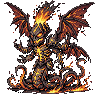
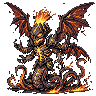
提豐：去掉圖上頭頂原本的黑煙
Claude-Session: https://claude.ai/code/session_019AjetoHBUzNNZUvoSfpCgP

Changed region(s): [[0.3438, 0.0, 0.6562, 0.1562], [0.625, 0.125, 0.6562, 0.1562]]

diff --git a/battle/index.html b/battle/index.html
@@ -389,7 +389,7 @@ function msz(k){return k==='sk'?[40,40]:FLY[k]?(FLY[k].im&&FLY[k].im[0]?[FLY[k].
 function skFrame(now){var bl=(now%3200)<180?1:0,dy=Math.sin(now/330)>0?1:0,k=bl+'_'+dy;if(SKC[k])return SKC[k];var im=SKI[bl];if(!im||!im.naturalWidth)return '';var c=document.createElement('canvas');c.width=40;c.height=40;var x=c.getContext('2d');x.imageSmoothingEnabled=false;x.drawImage(im,0,34,40,6,0,34,40,6);x.drawImage(im,0,0,40,34,0,dy,40,34);return SKC[k]=c.toDataURL()}
 /* 眼睛圖層型的怪物：_blink 是眼睛圖層，平常疊上去、眨眼時藏起來；膝蓋以上每 0.66 秒上下 1 格 */
 var BHRUNE=[[15,30],[15,31],[16,28],[17,29],[17,30],[17,69],[17,70],[18,28],[18,29],[18,67],[18,68],[18,69],[19,27],[19,30],[19,31],[19,64],[19,65],[19,67],[20,29],[20,30],[20,31],[20,59],[20,60],[20,61],[20,62],[20,65],[20,66],[20,67],[21,30],[21,33],[21,59],[21,60],[21,63],[21,64],[21,68],[21,69],[22,28],[22,34],[22,61],[22,62],[22,63],[23,28],[23,29],[24,28],[24,33],[24,35],[25,34],[25,35],[26,31],[27,32],[48,46],[48,47],[49,47],[49,48],[50,48],[51,44],[51,45],[51,46],[51,49],[51,73],[52,41],[52,42],[52,43],[52,46],[52,47],[52,49],[52,68],[52,69],[52,70],[52,72],[52,73],[53,44],[53,45],[53,47],[53,49],[53,51],[53,52],[53,53],[53,63],[53,66],[53,67],[53,70],[53,72],[54,42],[54,43],[54,44],[54,47],[54,48],[54,50],[54,54],[54,62],[54,65],[54,66],[54,68],[54,69],[54,71],[54,72],[55,42],[55,45],[55,48],[55,55],[55,56],[55,60],[55,61],[55,64],[55,65],[55,68],[55,69],[55,71],[55,72],[56,40],[56,41],[56,43],[56,46],[56,48],[56,49],[56,50],[56,59],[56,60],[56,62],[56,64],[56,70],[56,72],[57,41],[57,43],[57,44],[57,45],[57,51],[57,52],[57,59],[57,63],[57,65],[57,66],[57,70],[58,39],[58,40],[58,42],[58,50],[58,63],[58,67],[58,68],[59,40],[59,41],[59,43],[59,44],[59,50],[59,62],[59,63],[59,65],[60,47],[60,49],[60,50],[60,54],[60,55],[60,58],[60,59],[60,60],[60,61],[60,62],[60,65],[60,67],[61,48],[61,49],[61,51],[61,52],[61,53],[61,65],[61,66],[75,7],[76,6],[76,7],[77,6],[85,7]];/* 貝希摩斯身上綠色符文的像素（相對裁切後的圖） */
-var LAY={balrog:{sz:[80,83],c:{},per:1e12,kn:22,br:460,flm:1,fbox:[[20,4,46,24],[3,60,44,81]]}/* 炎魔：頭上的火、大劍的火都會晃 */,fwizard:{sz:[34,40],c:{},per:1e12,kn:12,br:400,flm:1,fbox:[31,0,40,12]}/* 沉淪魔巫師：杖頭火焰搖曳 */,fallen:{sz:[32,40],c:{},per:1e12,kn:12,br:360}/* 沉淪魔 */,lavag:{sz:[44,45],c:{},per:1e12,kn:14,br:430}/* 熔岩魔怪 */,felem:{sz:[60,61],c:{},per:1e12,kn:10,br:520,flm:1,fedge:3,fbox:[[17,2,44,16],[2,22,19,46],[40,10,54,35],[42,35,62,63]]}/* 火焰元素：頭、兩隻手、尾巴的火焰會晃 */,shound:{sz:[50,41],c:{},per:1e12,kn:12,br:450,flm:1,fbox:[[12,8,43,24],[10,38,52,50]]}/* 硫磺魔犬：鬃毛、腳掌的火會晃 */,acidb:{sz:[54,50],c:{},per:1e12,kn:8,br:480,flm:1,fbox:[[43,6,55,25]]}/* 赤焰蝕骨怪：尾巴的火會晃 */,typhon:{sz:[91,94],c:{},per:1e12,kn:30,br:520,flm:1,fbox:[[30,0,56,26]],eskip:[28,0,58,28]}/* 提豐：頭上業火會晃 */,salam:{sz:[46,44],c:{},per:1e12,kn:13,br:400,flm:1}/* 火焰蠑螈：背上的火焰會晃 */,flagel:{sz:[41,46],c:{},per:3300,kn:12,br:620},ironguard:{sz:[59,56],c:{},per:3600,kn:14,br:700},griffin:{sz:[42,46],c:{},per:1e12,kn:12,br:600},judge1:{sz:[75,78],c:{},per:1e12,kn:18,br:820},judge2:{sz:[56,72],c:{},per:1e12,kn:16,br:560},spriest:{sz:[37,46],c:{},per:1e12,kn:16,br:720,orb:[8.5,10]},sknight:{sz:[43,43],c:{},per:3800,kn:12,br:680},sarcher:{sz:[43,45],c:{},per:3400,kn:12,br:600},sguard:{sz:[42,46],c:{},per:3600,kn:12,br:640},valhalla:{sz:[96,94],c:{},per:1e12,kn:22,br:680},fsamurai:{sz:[52,63],c:{},per:1e12,kn:18,br:620},ielem:{sz:[54,60],c:{},per:3600,kn:15,br:600},mammoth:{sz:[45,43],c:{},per:3600,kn:12,br:620},goatman:{sz:[61,63],c:{},per:1e12,kn:19,br:600},cqueen:{sz:[84,84],c:{},per:1e12,kn:26,br:650},slion:{sz:[62,58],c:{},per:1e12,kn:18,br:640},stiger:{sz:[61,49],c:{},per:3300,kn:18,br:560},yeti:{sz:[60,63],c:{},per:3600,kn:17,br:600},chroma:{sz:[93,90],c:{},per:1e12,kn:24,br:650},fleshgolem:{sz:[49,60],c:{},per:1e12,kn:14,br:640},leoric:{sz:[81,86],c:{},per:3400,kn:22,br:700},apostle:{sz:[48,58],c:{},per:3300,kn:20,br:620},gargoyle:{sz:[38,43],c:{},per:3500,kn:43,br:1e12,inv:1,op:1200},bonearcher:{sz:[50,60],c:{},per:1e12,kn:20,br:560},boneman:{sz:[59,57],c:{},per:1e12,kn:20,br:600},bonepile:{sz:[54,37],c:{},per:1e12,kn:37,br:1e12},gob:{sz:[25,27],c:{},per:2900,kn:6},orc:{sz:[36,45],c:{},per:3400,kn:7},gobw:{sz:[24,27],c:{},per:2600,kn:6},golem:{sz:[44,45],c:{},per:3600,kn:7},cgolem:{sz:[44,45],c:{},per:3800,kn:7},spider:{sz:[48,30],c:{},per:3000,kn:8},troll:{sz:[49,53],c:{},per:1e12,kn:15,br:200},sandsnake:{sz:[31,36],c:{},per:3100,kn:12,br:380,tgp:2000},mummy:{sz:[26,45],c:{},per:1e12,kn:14,br:430},scorpion:{sz:[41,38],c:{},per:1e12,kn:10,br:360},croc:{sz:[46,35],c:{},per:1e12,kn:7,br:400},jackal:{sz:[48,36],c:{},per:1e12,kn:8,br:380},gorgon:{sz:[49,53],c:{},per:1e12,kn:13,br:420},ydragon:{sz:[40,32],c:{},per:1e12,kn:8,br:440},fydragon:{sz:[40,32],c:{},per:1e12,kn:8,br:400},iydragon:{sz:[40,33],c:{},per:1e12,kn:8,br:460},lydragon:{sz:[40,37],c:{},per:1e12,kn:8,br:300},udragon:{sz:[75,59],c:{},per:1e12,kn:12,br:500},u2dragon:{sz:[75,61],c:{},per:1e12,kn:12,br:520},bonedragon:{sz:[59,56],c:{},per:1e12,kn:18,br:620},mdragon:{sz:[42,32],c:{},per:1e12,kn:8,br:480},zombie:{sz:[38,45],c:{},per:1e12,kn:16,br:620},druid:{sz:[57,63],c:{},per:1e12,kn:16,br:560},behemoth:{sz:[95,85],c:{},per:3600,kn:26,br:640},hydragon:{sz:[40,32],c:{},per:1e12,kn:8,br:460},sdragon:{sz:[61,54],c:{},per:1e12,kn:15,br:520},osiris:{sz:[95,83],c:{},per:1e12,kn:16,br:520}};/* tgp = 吐舌週期（舌頭圖層每週期快速吐兩下） *//* br = 起伏速度（預設 330，數字小 = 喘得快）；巨魔不眨眼，紅眼和鼻息在 idleOne 畫 */
+var LAY={balrog:{sz:[80,83],c:{},per:1e12,kn:22,br:460,flm:1,fbox:[[20,4,46,24],[3,60,44,81]]}/* 炎魔：頭上的火、大劍的火都會晃 */,fwizard:{sz:[34,40],c:{},per:1e12,kn:12,br:400,flm:1,fbox:[31,0,40,12]}/* 沉淪魔巫師：杖頭火焰搖曳 */,fallen:{sz:[32,40],c:{},per:1e12,kn:12,br:360}/* 沉淪魔 */,lavag:{sz:[44,45],c:{},per:1e12,kn:14,br:430}/* 熔岩魔怪 */,felem:{sz:[60,61],c:{},per:1e12,kn:10,br:520,flm:1,fedge:3,fbox:[[17,2,44,16],[2,22,19,46],[40,10,54,35],[42,35,62,63]]}/* 火焰元素：頭、兩隻手、尾巴的火焰會晃 */,shound:{sz:[50,41],c:{},per:1e12,kn:12,br:450,flm:1,fbox:[[12,8,43,24],[10,38,52,50]]}/* 硫磺魔犬：鬃毛、腳掌的火會晃 */,acidb:{sz:[54,50],c:{},per:1e12,kn:8,br:480,flm:1,fbox:[[43,6,55,25]]}/* 赤焰蝕骨怪：尾巴的火會晃 */,typhon:{sz:[91,92],c:{},per:1e12,kn:30,br:520,flm:1,fbox:[[30,0,56,26]],eskip:[28,0,58,28]}/* 提豐：頭上業火會晃 */,salam:{sz:[46,44],c:{},per:1e12,kn:13,br:400,flm:1}/* 火焰蠑螈：背上的火焰會晃 */,flagel:{sz:[41,46],c:{},per:3300,kn:12,br:620},ironguard:{sz:[59,56],c:{},per:3600,kn:14,br:700},griffin:{sz:[42,46],c:{},per:1e12,kn:12,br:600},judge1:{sz:[75,78],c:{},per:1e12,kn:18,br:820},judge2:{sz:[56,72],c:{},per:1e12,kn:16,br:560},spriest:{sz:[37,46],c:{},per:1e12,kn:16,br:720,orb:[8.5,10]},sknight:{sz:[43,43],c:{},per:3800,kn:12,br:680},sarcher:{sz:[43,45],c:{},per:3400,kn:12,br:600},sguard:{sz:[42,46],c:{},per:3600,kn:12,br:640},valhalla:{sz:[96,94],c:{},per:1e12,kn:22,br:680},fsamurai:{sz:[52,63],c:{},per:1e12,kn:18,br:620},ielem:{sz:[54,60],c:{},per:3600,kn:15,br:600},mammoth:{sz:[45,43],c:{},per:3600,kn:12,br:620},goatman:{sz:[61,63],c:{},per:1e12,kn:19,br:600},cqueen:{sz:[84,84],c:{},per:1e12,kn:26,br:650},slion:{sz:[62,58],c:{},per:1e12,kn:18,br:640},stiger:{sz:[61,49],c:{},per:3300,kn:18,br:560},yeti:{sz:[60,63],c:{},per:3600,kn:17,br:600},chroma:{sz:[93,90],c:{},per:1e12,kn:24,br:650},fleshgolem:{sz:[49,60],c:{},per:1e12,kn:14,br:640},leoric:{sz:[81,86],c:{},per:3400,kn:22,br:700},apostle:{sz:[48,58],c:{},per:3300,kn:20,br:620},gargoyle:{sz:[38,43],c:{},per:3500,kn:43,br:1e12,inv:1,op:1200},bonearcher:{sz:[50,60],c:{},per:1e12,kn:20,br:560},boneman:{sz:[59,57],c:{},per:1e12,kn:20,br:600},bonepile:{sz:[54,37],c:{},per:1e12,kn:37,br:1e12},gob:{sz:[25,27],c:{},per:2900,kn:6},orc:{sz:[36,45],c:{},per:3400,kn:7},gobw:{sz:[24,27],c:{},per:2600,kn:6},golem:{sz:[44,45],c:{},per:3600,kn:7},cgolem:{sz:[44,45],c:{},per:3800,kn:7},spider:{sz:[48,30],c:{},per:3000,kn:8},troll:{sz:[49,53],c:{},per:1e12,kn:15,br:200},sandsnake:{sz:[31,36],c:{},per:3100,kn:12,br:380,tgp:2000},mummy:{sz:[26,45],c:{},per:1e12,kn:14,br:430},scorpion:{sz:[41,38],c:{},per:1e12,kn:10,br:360},croc:{sz:[46,35],c:{},per:1e12,kn:7,br:400},jackal:{sz:[48,36],c:{},per:1e12,kn:8,br:380},gorgon:{sz:[49,53],c:{},per:1e12,kn:13,br:420},ydragon:{sz:[40,32],c:{},per:1e12,kn:8,br:440},fydragon:{sz:[40,32],c:{},per:1e12,kn:8,br:400},iydragon:{sz:[40,33],c:{},per:1e12,kn:8,br:460},lydragon:{sz:[40,37],c:{},per:1e12,kn:8,br:300},udragon:{sz:[75,59],c:{},per:1e12,kn:12,br:500},u2dragon:{sz:[75,61],c:{},per:1e12,kn:12,br:520},bonedragon:{sz:[59,56],c:{},per:1e12,kn:18,br:620},mdragon:{sz:[42,32],c:{},per:1e12,kn:8,br:480},zombie:{sz:[38,45],c:{},per:1e12,kn:16,br:620},druid:{sz:[57,63],c:{},per:1e12,kn:16,br:560},behemoth:{sz:[95,85],c:{},per:3600,kn:26,br:640},hydragon:{sz:[40,32],c:{},per:1e12,kn:8,br:460},sdragon:{sz:[61,54],c:{},per:1e12,kn:15,br:520},osiris:{sz:[95,83],c:{},per:1e12,kn:16,br:520}};/* tgp = 吐舌週期（舌頭圖層每週期快速吐兩下） *//* br = 起伏速度（預設 330，數字小 = 喘得快）；巨魔不眨眼，紅眼和鼻息在 idleOne 畫 */
 function layFrame(k,now){var L=LAY[k],cl=L.inv?((now%L.per)>=L.op?1:0):(now%L.per)<160?1:0/* inv = 眼睛平常閉著、偶爾睜開 op 毫秒（石像鬼） */,dy=Math.sin(now/(L.br||330))>0?1:0,tq=L.tgp?now%L.tgp:9999,tg=L.tg&&((tq<150)||(tq>=300&&tq<450))?1:0,fi=L.flm?Math.floor(now/120)%6:0,key=cl+'_'+dy+'_'+tg+'_'+fi;if(L.c[key])return L.c[key];var b=L.base,e=L.eyes;if(!b||!b.naturalWidth||!L.bb)return '';
   var bb=L.bb,w=bb[2],h=bb[3],kn=h-L.kn,N=b.naturalWidth,c=document.createElement('canvas');c.width=w;c.height=h;var x=c.getContext('2d');x.imageSmoothingEnabled=false;
   var t=document.createElement('canvas');t.width=N;t.height=b.naturalHeight;var tx=t.getContext('2d');tx.drawImage(L.nof||b,0,0);if(L.fp)flameDraw(L,tx,fi);if(!cl&&e)tx.drawImage(e,0,0);if(tg)tx.drawImage(L.tg,0,0);
@@ -568,7 +568,7 @@ function bigSmash(e,d){var L=1e9,R=-1e9,T=1e9,B2=-1e9;(e.tgts||[]).forEach(funct
   if(im){var u=(d-60)/560;if(u>=0&&u<=1){var S=(56+u*40)*VS,a=u<.15?u/.15:1-Math.pow((u-.15)/.85,1.5);pctx.save();pctx.imageSmoothingEnabled=false;pctx.globalAlpha=Math.max(0,a);pctx.drawImage(im,Math.round((cx-S/2)*U),Math.round((cy-S/2)*U),Math.round(S*U),Math.round(S*U));pctx.restore()}}
   if(d>120&&d<480)shakeY=Math.round(Math.sin(d/16)*2*U*(1-(d-120)/360));pBurst(pk,cx,cy,d-140,30,VS*1.6);(e.tgts||[]).forEach(function(tk,n){var pp=posOf(tk);pBurst(pk,pp[0],pp[1]-14,d-200-n*30,12,VS)});FXA=fa}
 /* 怪物身上的特效起點（相對裁切後的圖）：mouth = 嘴、hand = 手 */
-var MPT={salam:{mouth:[2,22]},shound:{mouth:[3,25]},acidb:{mouth:[4,24]},typhon:{mouth:[36,38]},mammoth:{cast:[13,11],mouth:[12,30]},cqueen:{cast:[12,27]},yeti:{hand:[12,8]},fleshgolem:{mouth:[10,14],hand:[7,42]},chroma:{mR:[18,31.5],mG:[38,12],mB:[68,32.5]}};
+var MPT={salam:{mouth:[2,22]},shound:{mouth:[3,25]},acidb:{mouth:[4,24]},typhon:{mouth:[36,36]},mammoth:{cast:[13,11],mouth:[12,30]},cqueen:{cast:[12,27]},yeti:{hand:[12,8]},fleshgolem:{mouth:[10,14],hand:[7,42]},chroma:{mR:[18,31.5],mG:[38,12],mB:[68,32.5]}};
 function monPt(i,k){var mo=mons[i];if(!mo||mo.lx==null)return null;var MZ=msz(mo.k),q=(MPT[mo.k]||{})[k]||[MZ[0]*.25,MZ[1]*.35];return[mo.lx-MZ[0]*mo.sc/2+q[0]*mo.sc,mo.gy-(mo.lift||0)-MZ[1]*mo.sc+q[1]*mo.sc]}
 /* 屍塊噴吐：從嘴巴噴出一大把暗紅肉塊，拋物線飛到每個人身上，落地濺血 */
 function goreFx(e,d){var s=monPt(e.a,'mouth');if(!s||d<0||d>1100)return;var C=['#7a1a14','#a8322a','#d06a5a','#4a0e0a','#c89a8a'];
@@ -2776,7 +2776,7 @@ var IMGF={monster_01:'monsters/monster_01.png',monster_02:'monsters/monster_02.p
   monster_03:'monsters/monster_03.png?v=3',monster_03_blink:'monsters/monster_03_blink.png?v=2',monster_boss_01:'monsters/monster_boss_01.png',monster_boss_01_blink:'monsters/monster_boss_01_blink.png',
   monster_04:'monsters/monster_04.png',monster_05:'monsters/monster_05.png',monster_06:'monsters/monster_06.png?v=2',monster_boss_02:'monsters/monster_boss_02.png?v=5',
   monster_07:'monsters/monster_07.png?v=1',monster_08:'monsters/monster_08.png?v=1',monster_08_blink:'monsters/monster_08_blink.png?v=1',monster_09:'monsters/monster_09.png?v=2',
-  monster_10_a:'monsters/monster_10_a.png?v=1',monster_10_b:'monsters/monster_10_b.png?v=1',monster_11:'monsters/monster_11.png?v=1',monster_11_blink:'monsters/monster_11_blink.png?v=1',monster_12:'monsters/monster_12.png?v=1',monster_12_blink:'monsters/monster_12_blink.png?v=1',monster_14:'monsters/monster_14.png?v=1',monster_boss_06:'monsters/monster_boss_06.png?v=1',monster_boss_05:'monsters/monster_boss_05.png?v=1',monster_25:'monsters/monster_25.png?v=1',monster_22:'monsters/monster_22.png?v=1',monster_23:'monsters/monster_23.png?v=1',monster_24:'monsters/monster_24.png?v=1',monster_26:'monsters/monster_26.png?v=1',monster_27:'monsters/monster_27.png?v=1',monster_28:'monsters/monster_28.png?v=1',monster_boss_07:'monsters/monster_boss_07.png?v=1',monster_boss_08:'monsters/monster_boss_08.png?v=1',monster_29:'monsters/monster_29.png?v=1',monster_boss_09:'monsters/monster_boss_09.png?v=1',monster_30:'monsters/monster_30.png?v=1',monster_boss_10:'monsters/monster_boss_10.png?v=1',monster_31:'monsters/monster_31.png?v=1',monster_boss_11:'monsters/monster_boss_11.png?v=1',monster_boss_12:'monsters/monster_boss_12.png?v=1',monster_32:'monsters/monster_32.png?v=1',monster_33:'monsters/monster_33.png?v=1',monster_34:'monsters/monster_34.png?v=1',monster_35:'monsters/monster_35.png?v=1',monster_36:'monsters/monster_36.png?v=1',monster_38:'monsters/monster_38.png?v=1',monster_39:'monsters/monster_39.png?v=1',monster_39_eyes:'monsters/monster_39_eyes.png?v=1',monster_40:'monsters/monster_40.png?v=1',monster_40_blink:'monsters/monster_40_blink.png?v=1',monster_41:'monsters/monster_41.png?v=1',monster_42:'monsters/monster_42.png?v=1',monster_boss_15:'monsters/monster_boss_15.png?v=1',monster_boss_15_blink:'monsters/monster_boss_15_blink.png?v=1',monster_boss_15_sword:'monsters/monster_boss_15_sword.png?v=1',monster_boss_16:'monsters/monster_boss_16.png?v=1',monster_boss_17:'monsters/monster_boss_17.png?v=1',monster_boss_18:'monsters/monster_boss_18.png?v=2',monster_37:'monsters/monster_37.png?v=1',monster_boss_14:'monsters/monster_boss_14.png?v=1',monster_boss_14_blink:'monsters/monster_boss_14_blink.png?v=1',monster_boss_13:'monsters/monster_boss_13.png?v=1',monster_21:'monsters/monster_21.png?v=1',monster_20:'monsters/monster_20.png?v=1',monster_19:'monsters/monster_19.png?v=1',monster_19_blink:'monsters/monster_19_blink.png?v=1',monster_19_tongue:'monsters/monster_19_tongue.png?v=1',monster_18:'monsters/monster_18.png?v=1',monster_boss_04:'monsters/monster_boss_04.png?v=5',monster_boss_04_blink:'monsters/monster_boss_04_blink.png?v=5',monster_boss_04_tc:'monsters/monster_boss_04_tc.png?v=2',monster_17:'monsters/monster_17.png?v=1',monster_16:'monsters/monster_16.png?v=1',monster_43:'monsters/monster_43.png?v=1',monster_52:'monsters/monster_52.png?v=1',monster_53:'monsters/monster_53.png?v=1',monster_54:'monsters/monster_54.png?v=1',monster_57:'monsters/monster_57.png?v=1',monster_55:'monsters/monster_55.png?v=1',monster_55_eyes:'monsters/monster_55_eyes.png?v=1',monster_55_wpn:'monsters/monster_55_wpn.png?v=1',monster_56:'monsters/monster_56.png?v=2',monster_56_eyes:'monsters/monster_56_eyes.png?v=2',monster_56_wpn:'monsters/monster_56_wpn.png?v=2',monster_58:'monsters/monster_58.png?v=1',monster_58_eyes:'monsters/monster_58_eyes.png?v=1',monster_58_wpn:'monsters/monster_58_wpn.png?v=1',monster_59:'monsters/monster_59.png?v=1',monster_59_wpn:'monsters/monster_59_wpn.png?v=1',monster_60:'monsters/monster_60.png?v=1',monster_60_wpn:'monsters/monster_60_wpn.png?v=1',monster_61:'monsters/monster_61.png?v=1',monster_62:'monsters/monster_62.png?v=1',monster_63:'monsters/monster_63.png?v=1',monster_63_eyes:'monsters/monster_63_eyes.png?v=1',monster_63_wpn:'monsters/monster_63_wpn.png?v=1',monster_64:'monsters/monster_64.png?v=1',monster_64_eyes:'monsters/monster_64_eyes.png?v=1',monster_65_a:'monsters/monster_65_a.png?v=1',monster_65_b:'monsters/monster_65_b.png?v=1',monster_65_ac:'monsters/monster_65_ac.png?v=1',monster_65_bc:'monsters/monster_65_bc.png?v=1',monster_68_a:'monsters/monster_68_a.png?v=1',monster_68_b:'monsters/monster_68_b.png?v=1',monster_68_ac:'monsters/monster_68_ac.png?v=1',monster_68_bc:'monsters/monster_68_bc.png?v=1',monster_69:'monsters/monster_69.png?v=1',monster_70:'monsters/monster_70.png?v=1',monster_71:'monsters/monster_71.png?v=1',monster_72:'monsters/monster_72.png?v=1',monster_73:'monsters/monster_73.png?v=1',monster_74:'monsters/monster_74.png?v=1',monster_75:'monsters/monster_75.png?v=1',monster_76:'monsters/monster_76.png?v=1',monster_78:'monsters/monster_78.png?v=1',monster_79:'monsters/monster_79.png?v=1',monster_77_a:'monsters/monster_77_a.png?v=1',monster_77_b:'monsters/monster_77_b.png?v=1',monster_66:'monsters/monster_66.png?v=1',monster_66_halo:'monsters/monster_66_halo.png?v=1',monster_67:'monsters/monster_67.png?v=1',monster_44:'monsters/monster_44.png?v=1',monster_44_eyes:'monsters/monster_44_eyes.png?v=1',monster_45:'monsters/monster_45.png?v=1',monster_45_eyes:'monsters/monster_45_eyes.png?v=1',monster_46_a:'monsters/monster_46_a.png?v=1',monster_46_b:'monsters/monster_46_b.png?v=1',monster_47:'monsters/monster_47.png?v=1',monster_48:'monsters/monster_48.png?v=1',monster_49:'monsters/monster_49.png?v=1',monster_49_eyes:'monsters/monster_49_eyes.png?v=1',monster_50:'monsters/monster_50.png?v=1',monster_50_eyes:'monsters/monster_50_eyes.png?v=1',monster_51:'monsters/monster_51.png?v=1',monster_15:'monsters/monster_15.png?v=1',monster_13:'monsters/monster_13.png?v=1',monster_13_blink:'monsters/monster_13_blink.png?v=1',monster_boss_03:'monsters/monster_boss_03.png?v=2',claw:'vfx/claw.png?v=1',deathsweep:'vfx/deathsweep.png?v=1',icecluster:'vfx/icecluster.png?v=2',icesprout:'vfx/icesprout.png?v=1',blood_slash:'vfx/blood_slash.png?v=1',holy_sword:'vfx/holy_sword.png?v=1'};
+  monster_10_a:'monsters/monster_10_a.png?v=1',monster_10_b:'monsters/monster_10_b.png?v=1',monster_11:'monsters/monster_11.png?v=1',monster_11_blink:'monsters/monster_11_blink.png?v=1',monster_12:'monsters/monster_12.png?v=1',monster_12_blink:'monsters/monster_12_blink.png?v=1',monster_14:'monsters/monster_14.png?v=1',monster_boss_06:'monsters/monster_boss_06.png?v=1',monster_boss_05:'monsters/monster_boss_05.png?v=1',monster_25:'monsters/monster_25.png?v=1',monster_22:'monsters/monster_22.png?v=1',monster_23:'monsters/monster_23.png?v=1',monster_24:'monsters/monster_24.png?v=1',monster_26:'monsters/monster_26.png?v=1',monster_27:'monsters/monster_27.png?v=1',monster_28:'monsters/monster_28.png?v=1',monster_boss_07:'monsters/monster_boss_07.png?v=1',monster_boss_08:'monsters/monster_boss_08.png?v=1',monster_29:'monsters/monster_29.png?v=1',monster_boss_09:'monsters/monster_boss_09.png?v=1',monster_30:'monsters/monster_30.png?v=1',monster_boss_10:'monsters/monster_boss_10.png?v=1',monster_31:'monsters/monster_31.png?v=1',monster_boss_11:'monsters/monster_boss_11.png?v=1',monster_boss_12:'monsters/monster_boss_12.png?v=1',monster_32:'monsters/monster_32.png?v=1',monster_33:'monsters/monster_33.png?v=1',monster_34:'monsters/monster_34.png?v=1',monster_35:'monsters/monster_35.png?v=1',monster_36:'monsters/monster_36.png?v=1',monster_38:'monsters/monster_38.png?v=1',monster_39:'monsters/monster_39.png?v=1',monster_39_eyes:'monsters/monster_39_eyes.png?v=1',monster_40:'monsters/monster_40.png?v=1',monster_40_blink:'monsters/monster_40_blink.png?v=1',monster_41:'monsters/monster_41.png?v=1',monster_42:'monsters/monster_42.png?v=1',monster_boss_15:'monsters/monster_boss_15.png?v=1',monster_boss_15_blink:'monsters/monster_boss_15_blink.png?v=1',monster_boss_15_sword:'monsters/monster_boss_15_sword.png?v=1',monster_boss_16:'monsters/monster_boss_16.png?v=1',monster_boss_17:'monsters/monster_boss_17.png?v=1',monster_boss_18:'monsters/monster_boss_18.png?v=2',monster_37:'monsters/monster_37.png?v=1',monster_boss_14:'monsters/monster_boss_14.png?v=1',monster_boss_14_blink:'monsters/monster_boss_14_blink.png?v=1',monster_boss_13:'monsters/monster_boss_13.png?v=1',monster_21:'monsters/monster_21.png?v=1',monster_20:'monsters/monster_20.png?v=1',monster_19:'monsters/monster_19.png?v=1',monster_19_blink:'monsters/monster_19_blink.png?v=1',monster_19_tongue:'monsters/monster_19_tongue.png?v=1',monster_18:'monsters/monster_18.png?v=1',monster_boss_04:'monsters/monster_boss_04.png?v=5',monster_boss_04_blink:'monsters/monster_boss_04_blink.png?v=5',monster_boss_04_tc:'monsters/monster_boss_04_tc.png?v=2',monster_17:'monsters/monster_17.png?v=1',monster_16:'monsters/monster_16.png?v=1',monster_43:'monsters/monster_43.png?v=1',monster_52:'monsters/monster_52.png?v=1',monster_53:'monsters/monster_53.png?v=1',monster_54:'monsters/monster_54.png?v=1',monster_57:'monsters/monster_57.png?v=1',monster_55:'monsters/monster_55.png?v=1',monster_55_eyes:'monsters/monster_55_eyes.png?v=1',monster_55_wpn:'monsters/monster_55_wpn.png?v=1',monster_56:'monsters/monster_56.png?v=2',monster_56_eyes:'monsters/monster_56_eyes.png?v=2',monster_56_wpn:'monsters/monster_56_wpn.png?v=2',monster_58:'monsters/monster_58.png?v=1',monster_58_eyes:'monsters/monster_58_eyes.png?v=1',monster_58_wpn:'monsters/monster_58_wpn.png?v=1',monster_59:'monsters/monster_59.png?v=1',monster_59_wpn:'monsters/monster_59_wpn.png?v=1',monster_60:'monsters/monster_60.png?v=1',monster_60_wpn:'monsters/monster_60_wpn.png?v=1',monster_61:'monsters/monster_61.png?v=1',monster_62:'monsters/monster_62.png?v=1',monster_63:'monsters/monster_63.png?v=1',monster_63_eyes:'monsters/monster_63_eyes.png?v=1',monster_63_wpn:'monsters/monster_63_wpn.png?v=1',monster_64:'monsters/monster_64.png?v=1',monster_64_eyes:'monsters/monster_64_eyes.png?v=1',monster_65_a:'monsters/monster_65_a.png?v=1',monster_65_b:'monsters/monster_65_b.png?v=1',monster_65_ac:'monsters/monster_65_ac.png?v=1',monster_65_bc:'monsters/monster_65_bc.png?v=1',monster_68_a:'monsters/monster_68_a.png?v=1',monster_68_b:'monsters/monster_68_b.png?v=1',monster_68_ac:'monsters/monster_68_ac.png?v=1',monster_68_bc:'monsters/monster_68_bc.png?v=1',monster_69:'monsters/monster_69.png?v=1',monster_70:'monsters/monster_70.png?v=1',monster_71:'monsters/monster_71.png?v=1',monster_72:'monsters/monster_72.png?v=1',monster_73:'monsters/monster_73.png?v=1',monster_74:'monsters/monster_74.png?v=1',monster_75:'monsters/monster_75.png?v=1',monster_76:'monsters/monster_76.png?v=1',monster_78:'monsters/monster_78.png?v=1',monster_79:'monsters/monster_79.png?v=2',monster_77_a:'monsters/monster_77_a.png?v=1',monster_77_b:'monsters/monster_77_b.png?v=1',monster_66:'monsters/monster_66.png?v=1',monster_66_halo:'monsters/monster_66_halo.png?v=1',monster_67:'monsters/monster_67.png?v=1',monster_44:'monsters/monster_44.png?v=1',monster_44_eyes:'monsters/monster_44_eyes.png?v=1',monster_45:'monsters/monster_45.png?v=1',monster_45_eyes:'monsters/monster_45_eyes.png?v=1',monster_46_a:'monsters/monster_46_a.png?v=1',monster_46_b:'monsters/monster_46_b.png?v=1',monster_47:'monsters/monster_47.png?v=1',monster_48:'monsters/monster_48.png?v=1',monster_49:'monsters/monster_49.png?v=1',monster_49_eyes:'monsters/monster_49_eyes.png?v=1',monster_50:'monsters/monster_50.png?v=1',monster_50_eyes:'monsters/monster_50_eyes.png?v=1',monster_51:'monsters/monster_51.png?v=1',monster_15:'monsters/monster_15.png?v=1',monster_13:'monsters/monster_13.png?v=1',monster_13_blink:'monsters/monster_13_blink.png?v=1',monster_boss_03:'monsters/monster_boss_03.png?v=2',claw:'vfx/claw.png?v=1',deathsweep:'vfx/deathsweep.png?v=1',icecluster:'vfx/icecluster.png?v=2',icesprout:'vfx/icesprout.png?v=1',blood_slash:'vfx/blood_slash.png?v=1',holy_sword:'vfx/holy_sword.png?v=1'};
 IMGF.supwing_l='vfx/supwing_l.png?v=1';IMGF.fireburst='vfx/fireburst.png?v=1';IMGF.firedragon='vfx/firedragon.png?v=1';IMGF.meteor='vfx/meteor.png?v=1';IMGF.flamefx='vfx/flamefx.png?v=1';IMGF.fangs_u='vfx/fangs_u.png?v=1';IMGF.fangs_l='vfx/fangs_l.png?v=1';IMGF.nova='vfx/nova.png?v=1';IMGF.novapillar='vfx/novapillar.png?v=1';IMGF.supwing_r='vfx/supwing_r.png?v=1';
 [['slash',5],['arrow',1],['missile',3],['thrust',1],['smash',1]].forEach(function(q){for(var k=0;k<8;k++)IMGF[q[0]+'_0'+k]='vfx/'+q[0]+'_0'+k+'.png?v='+q[1]});
 var IMG={};

diff --git a/common/monsters.js b/common/monsters.js
@@ -30,7 +30,7 @@ function msz(k){return k==='sk'?[40,40]:FLY[k]?(FLY[k].im&&FLY[k].im[0]?[FLY[k].
 function skFrame(now){var bl=(now%3200)<180?1:0,dy=Math.sin(now/330)>0?1:0,k=bl+'_'+dy;if(SKC[k])return SKC[k];var im=SKI[bl];if(!im||!im.naturalWidth)return '';var c=document.createElement('canvas');c.width=40;c.height=40;var x=c.getContext('2d');x.imageSmoothingEnabled=false;x.drawImage(im,0,34,40,6,0,34,40,6);x.drawImage(im,0,0,40,34,0,dy,40,34);return SKC[k]=c.toDataURL()}
 /* 眼睛圖層型的怪物：_blink 是眼睛圖層，平常疊上去、眨眼時藏起來；膝蓋以上每 0.66 秒上下 1 格 */
 var BHRUNE=[[15,30],[15,31],[16,28],[17,29],[17,30],[17,69],[17,70],[18,28],[18,29],[18,67],[18,68],[18,69],[19,27],[19,30],[19,31],[19,64],[19,65],[19,67],[20,29],[20,30],[20,31],[20,59],[20,60],[20,61],[20,62],[20,65],[20,66],[20,67],[21,30],[21,33],[21,59],[21,60],[21,63],[21,64],[21,68],[21,69],[22,28],[22,34],[22,61],[22,62],[22,63],[23,28],[23,29],[24,28],[24,33],[24,35],[25,34],[25,35],[26,31],[27,32],[48,46],[48,47],[49,47],[49,48],[50,48],[51,44],[51,45],[51,46],[51,49],[51,73],[52,41],[52,42],[52,43],[52,46],[52,47],[52,49],[52,68],[52,69],[52,70],[52,72],[52,73],[53,44],[53,45],[53,47],[53,49],[53,51],[53,52],[53,53],[53,63],[53,66],[53,67],[53,70],[53,72],[54,42],[54,43],[54,44],[54,47],[54,48],[54,50],[54,54],[54,62],[54,65],[54,66],[54,68],[54,69],[54,71],[54,72],[55,42],[55,45],[55,48],[55,55],[55,56],[55,60],[55,61],[55,64],[55,65],[55,68],[55,69],[55,71],[55,72],[56,40],[56,41],[56,43],[56,46],[56,48],[56,49],[56,50],[56,59],[56,60],[56,62],[56,64],[56,70],[56,72],[57,41],[57,43],[57,44],[57,45],[57,51],[57,52],[57,59],[57,63],[57,65],[57,66],[57,70],[58,39],[58,40],[58,42],[58,50],[58,63],[58,67],[58,68],[59,40],[59,41],[59,43],[59,44],[59,50],[59,62],[59,63],[59,65],[60,47],[60,49],[60,50],[60,54],[60,55],[60,58],[60,59],[60,60],[60,61],[60,62],[60,65],[60,67],[61,48],[61,49],[61,51],[61,52],[61,53],[61,65],[61,66],[75,7],[76,6],[76,7],[77,6],[85,7]];/* 貝希摩斯身上綠色符文的像素（相對裁切後的圖） */
-var LAY={balrog:{sz:[80,83],c:{},per:1e12,kn:22,br:460,flm:1,fbox:[[20,4,46,24],[3,60,44,81]]}/* 炎魔：頭上的火、大劍的火都會晃 */,fwizard:{sz:[34,40],c:{},per:1e12,kn:12,br:400,flm:1,fbox:[31,0,40,12]}/* 沉淪魔巫師：杖頭火焰搖曳 */,fallen:{sz:[32,40],c:{},per:1e12,kn:12,br:360}/* 沉淪魔 */,lavag:{sz:[44,45],c:{},per:1e12,kn:14,br:430}/* 熔岩魔怪 */,felem:{sz:[60,61],c:{},per:1e12,kn:10,br:520,flm:1,fedge:3,fbox:[[17,2,44,16],[2,22,19,46],[40,10,54,35],[42,35,62,63]]}/* 火焰元素：頭、兩隻手、尾巴的火焰會晃 */,shound:{sz:[50,41],c:{},per:1e12,kn:12,br:450,flm:1,fbox:[[12,8,43,24],[10,38,52,50]]}/* 硫磺魔犬：鬃毛、腳掌的火會晃 */,acidb:{sz:[54,50],c:{},per:1e12,kn:8,br:480,flm:1,fbox:[[43,6,55,25]]}/* 赤焰蝕骨怪：尾巴的火會晃 */,typhon:{sz:[91,94],c:{},per:1e12,kn:30,br:520,flm:1,fbox:[[30,0,56,26]],eskip:[28,0,58,28]}/* 提豐：頭上業火會晃 */,salam:{sz:[46,44],c:{},per:1e12,kn:13,br:400,flm:1}/* 火焰蠑螈：背上的火焰會晃 */,flagel:{sz:[41,46],c:{},per:3300,kn:12,br:620},ironguard:{sz:[59,56],c:{},per:3600,kn:14,br:700},griffin:{sz:[42,46],c:{},per:1e12,kn:12,br:600},judge1:{sz:[75,78],c:{},per:1e12,kn:18,br:820},judge2:{sz:[56,72],c:{},per:1e12,kn:16,br:560},spriest:{sz:[37,46],c:{},per:1e12,kn:16,br:720,orb:[8.5,10]},sknight:{sz:[43,43],c:{},per:3800,kn:12,br:680},sarcher:{sz:[43,45],c:{},per:3400,kn:12,br:600},sguard:{sz:[42,46],c:{},per:3600,kn:12,br:640},valhalla:{sz:[96,94],c:{},per:1e12,kn:22,br:680},fsamurai:{sz:[52,63],c:{},per:1e12,kn:18,br:620},ielem:{sz:[54,60],c:{},per:3600,kn:15,br:600},mammoth:{sz:[45,43],c:{},per:3600,kn:12,br:620},goatman:{sz:[61,63],c:{},per:1e12,kn:19,br:600},cqueen:{sz:[84,84],c:{},per:1e12,kn:26,br:650},slion:{sz:[62,58],c:{},per:1e12,kn:18,br:640},stiger:{sz:[61,49],c:{},per:3300,kn:18,br:560},yeti:{sz:[60,63],c:{},per:3600,kn:17,br:600},chroma:{sz:[93,90],c:{},per:1e12,kn:24,br:650},fleshgolem:{sz:[49,60],c:{},per:1e12,kn:14,br:640},leoric:{sz:[81,86],c:{},per:3400,kn:22,br:700},apostle:{sz:[48,58],c:{},per:3300,kn:20,br:620},gargoyle:{sz:[38,43],c:{},per:3500,kn:43,br:1e12,inv:1,op:1200},bonearcher:{sz:[50,60],c:{},per:1e12,kn:20,br:560},boneman:{sz:[59,57],c:{},per:1e12,kn:20,br:600},bonepile:{sz:[54,37],c:{},per:1e12,kn:37,br:1e12},gob:{sz:[25,27],c:{},per:2900,kn:6},orc:{sz:[36,45],c:{},per:3400,kn:7},gobw:{sz:[24,27],c:{},per:2600,kn:6},golem:{sz:[44,45],c:{},per:3600,kn:7},cgolem:{sz:[44,45],c:{},per:3800,kn:7},spider:{sz:[48,30],c:{},per:3000,kn:8},troll:{sz:[49,53],c:{},per:1e12,kn:15,br:200},sandsnake:{sz:[31,36],c:{},per:3100,kn:12,br:380,tgp:2000},mummy:{sz:[26,45],c:{},per:1e12,kn:14,br:430},scorpion:{sz:[41,38],c:{},per:1e12,kn:10,br:360},croc:{sz:[46,35],c:{},per:1e12,kn:7,br:400},jackal:{sz:[48,36],c:{},per:1e12,kn:8,br:380},gorgon:{sz:[49,53],c:{},per:1e12,kn:13,br:420},ydragon:{sz:[40,32],c:{},per:1e12,kn:8,br:440},fydragon:{sz:[40,32],c:{},per:1e12,kn:8,br:400},iydragon:{sz:[40,33],c:{},per:1e12,kn:8,br:460},lydragon:{sz:[40,37],c:{},per:1e12,kn:8,br:300},udragon:{sz:[75,59],c:{},per:1e12,kn:12,br:500},u2dragon:{sz:[75,61],c:{},per:1e12,kn:12,br:520},bonedragon:{sz:[59,56],c:{},per:1e12,kn:18,br:620},mdragon:{sz:[42,32],c:{},per:1e12,kn:8,br:480},zombie:{sz:[38,45],c:{},per:1e12,kn:16,br:620},druid:{sz:[57,63],c:{},per:1e12,kn:16,br:560},behemoth:{sz:[95,85],c:{},per:3600,kn:26,br:640},hydragon:{sz:[40,32],c:{},per:1e12,kn:8,br:460},sdragon:{sz:[61,54],c:{},per:1e12,kn:15,br:520},osiris:{sz:[95,83],c:{},per:1e12,kn:16,br:520}};/* tgp = 吐舌週期（舌頭圖層每週期快速吐兩下） *//* br = 起伏速度（預設 330，數字小 = 喘得快）；巨魔不眨眼，紅眼和鼻息在 idleOne 畫 */
+var LAY={balrog:{sz:[80,83],c:{},per:1e12,kn:22,br:460,flm:1,fbox:[[20,4,46,24],[3,60,44,81]]}/* 炎魔：頭上的火、大劍的火都會晃 */,fwizard:{sz:[34,40],c:{},per:1e12,kn:12,br:400,flm:1,fbox:[31,0,40,12]}/* 沉淪魔巫師：杖頭火焰搖曳 */,fallen:{sz:[32,40],c:{},per:1e12,kn:12,br:360}/* 沉淪魔 */,lavag:{sz:[44,45],c:{},per:1e12,kn:14,br:430}/* 熔岩魔怪 */,felem:{sz:[60,61],c:{},per:1e12,kn:10,br:520,flm:1,fedge:3,fbox:[[17,2,44,16],[2,22,19,46],[40,10,54,35],[42,35,62,63]]}/* 火焰元素：頭、兩隻手、尾巴的火焰會晃 */,shound:{sz:[50,41],c:{},per:1e12,kn:12,br:450,flm:1,fbox:[[12,8,43,24],[10,38,52,50]]}/* 硫磺魔犬：鬃毛、腳掌的火會晃 */,acidb:{sz:[54,50],c:{},per:1e12,kn:8,br:480,flm:1,fbox:[[43,6,55,25]]}/* 赤焰蝕骨怪：尾巴的火會晃 */,typhon:{sz:[91,92],c:{},per:1e12,kn:30,br:520,flm:1,fbox:[[30,0,56,26]],eskip:[28,0,58,28]}/* 提豐：頭上業火會晃 */,salam:{sz:[46,44],c:{},per:1e12,kn:13,br:400,flm:1}/* 火焰蠑螈：背上的火焰會晃 */,flagel:{sz:[41,46],c:{},per:3300,kn:12,br:620},ironguard:{sz:[59,56],c:{},per:3600,kn:14,br:700},griffin:{sz:[42,46],c:{},per:1e12,kn:12,br:600},judge1:{sz:[75,78],c:{},per:1e12,kn:18,br:820},judge2:{sz:[56,72],c:{},per:1e12,kn:16,br:560},spriest:{sz:[37,46],c:{},per:1e12,kn:16,br:720,orb:[8.5,10]},sknight:{sz:[43,43],c:{},per:3800,kn:12,br:680},sarcher:{sz:[43,45],c:{},per:3400,kn:12,br:600},sguard:{sz:[42,46],c:{},per:3600,kn:12,br:640},valhalla:{sz:[96,94],c:{},per:1e12,kn:22,br:680},fsamurai:{sz:[52,63],c:{},per:1e12,kn:18,br:620},ielem:{sz:[54,60],c:{},per:3600,kn:15,br:600},mammoth:{sz:[45,43],c:{},per:3600,kn:12,br:620},goatman:{sz:[61,63],c:{},per:1e12,kn:19,br:600},cqueen:{sz:[84,84],c:{},per:1e12,kn:26,br:650},slion:{sz:[62,58],c:{},per:1e12,kn:18,br:640},stiger:{sz:[61,49],c:{},per:3300,kn:18,br:560},yeti:{sz:[60,63],c:{},per:3600,kn:17,br:600},chroma:{sz:[93,90],c:{},per:1e12,kn:24,br:650},fleshgolem:{sz:[49,60],c:{},per:1e12,kn:14,br:640},leoric:{sz:[81,86],c:{},per:3400,kn:22,br:700},apostle:{sz:[48,58],c:{},per:3300,kn:20,br:620},gargoyle:{sz:[38,43],c:{},per:3500,kn:43,br:1e12,inv:1,op:1200},bonearcher:{sz:[50,60],c:{},per:1e12,kn:20,br:560},boneman:{sz:[59,57],c:{},per:1e12,kn:20,br:600},bonepile:{sz:[54,37],c:{},per:1e12,kn:37,br:1e12},gob:{sz:[25,27],c:{},per:2900,kn:6},orc:{sz:[36,45],c:{},per:3400,kn:7},gobw:{sz:[24,27],c:{},per:2600,kn:6},golem:{sz:[44,45],c:{},per:3600,kn:7},cgolem:{sz:[44,45],c:{},per:3800,kn:7},spider:{sz:[48,30],c:{},per:3000,kn:8},troll:{sz:[49,53],c:{},per:1e12,kn:15,br:200},sandsnake:{sz:[31,36],c:{},per:3100,kn:12,br:380,tgp:2000},mummy:{sz:[26,45],c:{},per:1e12,kn:14,br:430},scorpion:{sz:[41,38],c:{},per:1e12,kn:10,br:360},croc:{sz:[46,35],c:{},per:1e12,kn:7,br:400},jackal:{sz:[48,36],c:{},per:1e12,kn:8,br:380},gorgon:{sz:[49,53],c:{},per:1e12,kn:13,br:420},ydragon:{sz:[40,32],c:{},per:1e12,kn:8,br:440},fydragon:{sz:[40,32],c:{},per:1e12,kn:8,br:400},iydragon:{sz:[40,33],c:{},per:1e12,kn:8,br:460},lydragon:{sz:[40,37],c:{},per:1e12,kn:8,br:300},udragon:{sz:[75,59],c:{},per:1e12,kn:12,br:500},u2dragon:{sz:[75,61],c:{},per:1e12,kn:12,br:520},bonedragon:{sz:[59,56],c:{},per:1e12,kn:18,br:620},mdragon:{sz:[42,32],c:{},per:1e12,kn:8,br:480},zombie:{sz:[38,45],c:{},per:1e12,kn:16,br:620},druid:{sz:[57,63],c:{},per:1e12,kn:16,br:560},behemoth:{sz:[95,85],c:{},per:3600,kn:26,br:640},hydragon:{sz:[40,32],c:{},per:1e12,kn:8,br:460},sdragon:{sz:[61,54],c:{},per:1e12,kn:15,br:520},osiris:{sz:[95,83],c:{},per:1e12,kn:16,br:520}};/* tgp = 吐舌週期（舌頭圖層每週期快速吐兩下） *//* br = 起伏速度（預設 330，數字小 = 喘得快）；巨魔不眨眼，紅眼和鼻息在 idleOne 畫 */
 function layFrame(k,now){var L=LAY[k],cl=L.inv?((now%L.per)>=L.op?1:0):(now%L.per)<160?1:0/* inv = 眼睛平常閉著、偶爾睜開 op 毫秒（石像鬼） */,dy=Math.sin(now/(L.br||330))>0?1:0,tq=L.tgp?now%L.tgp:9999,tg=L.tg&&((tq<150)||(tq>=300&&tq<450))?1:0,fi=L.flm?Math.floor(now/120)%6:0,key=cl+'_'+dy+'_'+tg+'_'+fi;if(L.c[key])return L.c[key];var b=L.base,e=L.eyes;if(!b||!b.naturalWidth||!L.bb)return '';
   var bb=L.bb,w=bb[2],h=bb[3],kn=h-L.kn,N=b.naturalWidth,c=document.createElement('canvas');c.width=w;c.height=h;var x=c.getContext('2d');x.imageSmoothingEnabled=false;
   var t=document.createElement('canvas');t.width=N;t.height=b.naturalHeight;var tx=t.getContext('2d');tx.drawImage(L.nof||b,0,0);if(L.fp)flameDraw(L,tx,fi);if(!cl&&e)tx.drawImage(e,0,0);if(tg)tx.drawImage(L.tg,0,0);
@@ -375,7 +375,7 @@ var IMGF0={monster_01:'monsters/monster_01.png',monster_02:'monsters/monster_02.
   monster_03:'monsters/monster_03.png?v=3',monster_03_blink:'monsters/monster_03_blink.png?v=2',monster_boss_01:'monsters/monster_boss_01.png',monster_boss_01_blink:'monsters/monster_boss_01_blink.png',
   monster_04:'monsters/monster_04.png',monster_05:'monsters/monster_05.png',monster_06:'monsters/monster_06.png?v=2',monster_boss_02:'monsters/monster_boss_02.png?v=5',
   monster_07:'monsters/monster_07.png?v=1',monster_08:'monsters/monster_08.png?v=1',monster_08_blink:'monsters/monster_08_blink.png?v=1',monster_09:'monsters/monster_09.png?v=2',
-  monster_10_a:'monsters/monster_10_a.png?v=1',monster_10_b:'monsters/monster_10_b.png?v=1',monster_11:'monsters/monster_11.png?v=1',monster_11_blink:'monsters/monster_11_blink.png?v=1',monster_12:'monsters/monster_12.png?v=1',monster_12_blink:'monsters/monster_12_blink.png?v=1',monster_14:'monsters/monster_14.png?v=1',monster_boss_06:'monsters/monster_boss_06.png?v=1',monster_boss_05:'monsters/monster_boss_05.png?v=1',monster_25:'monsters/monster_25.png?v=1',monster_22:'monsters/monster_22.png?v=1',monster_23:'monsters/monster_23.png?v=1',monster_24:'monsters/monster_24.png?v=1',monster_26:'monsters/monster_26.png?v=1',monster_27:'monsters/monster_27.png?v=1',monster_28:'monsters/monster_28.png?v=1',monster_boss_07:'monsters/monster_boss_07.png?v=1',monster_boss_08:'monsters/monster_boss_08.png?v=1',monster_29:'monsters/monster_29.png?v=1',monster_boss_09:'monsters/monster_boss_09.png?v=1',monster_30:'monsters/monster_30.png?v=1',monster_boss_10:'monsters/monster_boss_10.png?v=1',monster_31:'monsters/monster_31.png?v=1',monster_boss_11:'monsters/monster_boss_11.png?v=1',monster_boss_12:'monsters/monster_boss_12.png?v=1',monster_32:'monsters/monster_32.png?v=1',monster_33:'monsters/monster_33.png?v=1',monster_34:'monsters/monster_34.png?v=1',monster_35:'monsters/monster_35.png?v=1',monster_36:'monsters/monster_36.png?v=1',monster_38:'monsters/monster_38.png?v=1',monster_39:'monsters/monster_39.png?v=1',monster_39_eyes:'monsters/monster_39_eyes.png?v=1',monster_40:'monsters/monster_40.png?v=1',monster_40_blink:'monsters/monster_40_blink.png?v=1',monster_41:'monsters/monster_41.png?v=1',monster_42:'monsters/monster_42.png?v=1',monster_boss_15:'monsters/monster_boss_15.png?v=1',monster_boss_15_blink:'monsters/monster_boss_15_blink.png?v=1',monster_boss_15_sword:'monsters/monster_boss_15_sword.png?v=1',monster_boss_16:'monsters/monster_boss_16.png?v=1',monster_boss_17:'monsters/monster_boss_17.png?v=1',monster_boss_18:'monsters/monster_boss_18.png?v=2',monster_37:'monsters/monster_37.png?v=1',monster_boss_14:'monsters/monster_boss_14.png?v=1',monster_boss_14_blink:'monsters/monster_boss_14_blink.png?v=1',monster_boss_13:'monsters/monster_boss_13.png?v=1',monster_21:'monsters/monster_21.png?v=1',monster_20:'monsters/monster_20.png?v=1',monster_19:'monsters/monster_19.png?v=1',monster_19_blink:'monsters/monster_19_blink.png?v=1',monster_19_tongue:'monsters/monster_19_tongue.png?v=1',monster_18:'monsters/monster_18.png?v=1',monster_boss_04:'monsters/monster_boss_04.png?v=5',monster_boss_04_blink:'monsters/monster_boss_04_blink.png?v=5',monster_boss_04_tc:'monsters/monster_boss_04_tc.png?v=2',monster_17:'monsters/monster_17.png?v=1',monster_16:'monsters/monster_16.png?v=1',monster_43:'monsters/monster_43.png?v=1',monster_52:'monsters/monster_52.png?v=1',monster_53:'monsters/monster_53.png?v=1',monster_54:'monsters/monster_54.png?v=1',monster_57:'monsters/monster_57.png?v=1',monster_55:'monsters/monster_55.png?v=1',monster_55_eyes:'monsters/monster_55_eyes.png?v=1',monster_55_wpn:'monsters/monster_55_wpn.png?v=1',monster_56:'monsters/monster_56.png?v=2',monster_56_eyes:'monsters/monster_56_eyes.png?v=2',monster_56_wpn:'monsters/monster_56_wpn.png?v=2',monster_58:'monsters/monster_58.png?v=1',monster_58_eyes:'monsters/monster_58_eyes.png?v=1',monster_58_wpn:'monsters/monster_58_wpn.png?v=1',monster_59:'monsters/monster_59.png?v=1',monster_59_wpn:'monsters/monster_59_wpn.png?v=1',monster_60:'monsters/monster_60.png?v=1',monster_60_wpn:'monsters/monster_60_wpn.png?v=1',monster_61:'monsters/monster_61.png?v=1',monster_62:'monsters/monster_62.png?v=1',monster_63:'monsters/monster_63.png?v=1',monster_63_eyes:'monsters/monster_63_eyes.png?v=1',monster_63_wpn:'monsters/monster_63_wpn.png?v=1',monster_64:'monsters/monster_64.png?v=1',monster_64_eyes:'monsters/monster_64_eyes.png?v=1',monster_65_a:'monsters/monster_65_a.png?v=1',monster_65_b:'monsters/monster_65_b.png?v=1',monster_65_ac:'monsters/monster_65_ac.png?v=1',monster_65_bc:'monsters/monster_65_bc.png?v=1',monster_68_a:'monsters/monster_68_a.png?v=1',monster_68_b:'monsters/monster_68_b.png?v=1',monster_68_ac:'monsters/monster_68_ac.png?v=1',monster_68_bc:'monsters/monster_68_bc.png?v=1',monster_69:'monsters/monster_69.png?v=1',monster_70:'monsters/monster_70.png?v=1',monster_71:'monsters/monster_71.png?v=1',monster_72:'monsters/monster_72.png?v=1',monster_73:'monsters/monster_73.png?v=1',monster_74:'monsters/monster_74.png?v=1',monster_75:'monsters/monster_75.png?v=1',monster_76:'monsters/monster_76.png?v=1',monster_78:'monsters/monster_78.png?v=1',monster_79:'monsters/monster_79.png?v=1',monster_77_a:'monsters/monster_77_a.png?v=1',monster_77_b:'monsters/monster_77_b.png?v=1',monster_66:'monsters/monster_66.png?v=1',monster_66_halo:'monsters/monster_66_halo.png?v=1',monster_67:'monsters/monster_67.png?v=1',monster_44:'monsters/monster_44.png?v=1',monster_44_eyes:'monsters/monster_44_eyes.png?v=1',monster_45:'monsters/monster_45.png?v=1',monster_45_eyes:'monsters/monster_45_eyes.png?v=1',monster_46_a:'monsters/monster_46_a.png?v=1',monster_46_b:'monsters/monster_46_b.png?v=1',monster_47:'monsters/monster_47.png?v=1',monster_48:'monsters/monster_48.png?v=1',monster_49:'monsters/monster_49.png?v=1',monster_49_eyes:'monsters/monster_49_eyes.png?v=1',monster_50:'monsters/monster_50.png?v=1',monster_50_eyes:'monsters/monster_50_eyes.png?v=1',monster_51:'monsters/monster_51.png?v=1',monster_15:'monsters/monster_15.png?v=1',monster_13:'monsters/monster_13.png?v=1',monster_13_blink:'monsters/monster_13_blink.png?v=1',monster_boss_03:'monsters/monster_boss_03.png?v=2',claw:'vfx/claw.png?v=1',blood_slash:'vfx/blood_slash.png?v=1'};
+  monster_10_a:'monsters/monster_10_a.png?v=1',monster_10_b:'monsters/monster_10_b.png?v=1',monster_11:'monsters/monster_11.png?v=1',monster_11_blink:'monsters/monster_11_blink.png?v=1',monster_12:'monsters/monster_12.png?v=1',monster_12_blink:'monsters/monster_12_blink.png?v=1',monster_14:'monsters/monster_14.png?v=1',monster_boss_06:'monsters/monster_boss_06.png?v=1',monster_boss_05:'monsters/monster_boss_05.png?v=1',monster_25:'monsters/monster_25.png?v=1',monster_22:'monsters/monster_22.png?v=1',monster_23:'monsters/monster_23.png?v=1',monster_24:'monsters/monster_24.png?v=1',monster_26:'monsters/monster_26.png?v=1',monster_27:'monsters/monster_27.png?v=1',monster_28:'monsters/monster_28.png?v=1',monster_boss_07:'monsters/monster_boss_07.png?v=1',monster_boss_08:'monsters/monster_boss_08.png?v=1',monster_29:'monsters/monster_29.png?v=1',monster_boss_09:'monsters/monster_boss_09.png?v=1',monster_30:'monsters/monster_30.png?v=1',monster_boss_10:'monsters/monster_boss_10.png?v=1',monster_31:'monsters/monster_31.png?v=1',monster_boss_11:'monsters/monster_boss_11.png?v=1',monster_boss_12:'monsters/monster_boss_12.png?v=1',monster_32:'monsters/monster_32.png?v=1',monster_33:'monsters/monster_33.png?v=1',monster_34:'monsters/monster_34.png?v=1',monster_35:'monsters/monster_35.png?v=1',monster_36:'monsters/monster_36.png?v=1',monster_38:'monsters/monster_38.png?v=1',monster_39:'monsters/monster_39.png?v=1',monster_39_eyes:'monsters/monster_39_eyes.png?v=1',monster_40:'monsters/monster_40.png?v=1',monster_40_blink:'monsters/monster_40_blink.png?v=1',monster_41:'monsters/monster_41.png?v=1',monster_42:'monsters/monster_42.png?v=1',monster_boss_15:'monsters/monster_boss_15.png?v=1',monster_boss_15_blink:'monsters/monster_boss_15_blink.png?v=1',monster_boss_15_sword:'monsters/monster_boss_15_sword.png?v=1',monster_boss_16:'monsters/monster_boss_16.png?v=1',monster_boss_17:'monsters/monster_boss_17.png?v=1',monster_boss_18:'monsters/monster_boss_18.png?v=2',monster_37:'monsters/monster_37.png?v=1',monster_boss_14:'monsters/monster_boss_14.png?v=1',monster_boss_14_blink:'monsters/monster_boss_14_blink.png?v=1',monster_boss_13:'monsters/monster_boss_13.png?v=1',monster_21:'monsters/monster_21.png?v=1',monster_20:'monsters/monster_20.png?v=1',monster_19:'monsters/monster_19.png?v=1',monster_19_blink:'monsters/monster_19_blink.png?v=1',monster_19_tongue:'monsters/monster_19_tongue.png?v=1',monster_18:'monsters/monster_18.png?v=1',monster_boss_04:'monsters/monster_boss_04.png?v=5',monster_boss_04_blink:'monsters/monster_boss_04_blink.png?v=5',monster_boss_04_tc:'monsters/monster_boss_04_tc.png?v=2',monster_17:'monsters/monster_17.png?v=1',monster_16:'monsters/monster_16.png?v=1',monster_43:'monsters/monster_43.png?v=1',monster_52:'monsters/monster_52.png?v=1',monster_53:'monsters/monster_53.png?v=1',monster_54:'monsters/monster_54.png?v=1',monster_57:'monsters/monster_57.png?v=1',monster_55:'monsters/monster_55.png?v=1',monster_55_eyes:'monsters/monster_55_eyes.png?v=1',monster_55_wpn:'monsters/monster_55_wpn.png?v=1',monster_56:'monsters/monster_56.png?v=2',monster_56_eyes:'monsters/monster_56_eyes.png?v=2',monster_56_wpn:'monsters/monster_56_wpn.png?v=2',monster_58:'monsters/monster_58.png?v=1',monster_58_eyes:'monsters/monster_58_eyes.png?v=1',monster_58_wpn:'monsters/monster_58_wpn.png?v=1',monster_59:'monsters/monster_59.png?v=1',monster_59_wpn:'monsters/monster_59_wpn.png?v=1',monster_60:'monsters/monster_60.png?v=1',monster_60_wpn:'monsters/monster_60_wpn.png?v=1',monster_61:'monsters/monster_61.png?v=1',monster_62:'monsters/monster_62.png?v=1',monster_63:'monsters/monster_63.png?v=1',monster_63_eyes:'monsters/monster_63_eyes.png?v=1',monster_63_wpn:'monsters/monster_63_wpn.png?v=1',monster_64:'monsters/monster_64.png?v=1',monster_64_eyes:'monsters/monster_64_eyes.png?v=1',monster_65_a:'monsters/monster_65_a.png?v=1',monster_65_b:'monsters/monster_65_b.png?v=1',monster_65_ac:'monsters/monster_65_ac.png?v=1',monster_65_bc:'monsters/monster_65_bc.png?v=1',monster_68_a:'monsters/monster_68_a.png?v=1',monster_68_b:'monsters/monster_68_b.png?v=1',monster_68_ac:'monsters/monster_68_ac.png?v=1',monster_68_bc:'monsters/monster_68_bc.png?v=1',monster_69:'monsters/monster_69.png?v=1',monster_70:'monsters/monster_70.png?v=1',monster_71:'monsters/monster_71.png?v=1',monster_72:'monsters/monster_72.png?v=1',monster_73:'monsters/monster_73.png?v=1',monster_74:'monsters/monster_74.png?v=1',monster_75:'monsters/monster_75.png?v=1',monster_76:'monsters/monster_76.png?v=1',monster_78:'monsters/monster_78.png?v=1',monster_79:'monsters/monster_79.png?v=2',monster_77_a:'monsters/monster_77_a.png?v=1',monster_77_b:'monsters/monster_77_b.png?v=1',monster_66:'monsters/monster_66.png?v=1',monster_66_halo:'monsters/monster_66_halo.png?v=1',monster_67:'monsters/monster_67.png?v=1',monster_44:'monsters/monster_44.png?v=1',monster_44_eyes:'monsters/monster_44_eyes.png?v=1',monster_45:'monsters/monster_45.png?v=1',monster_45_eyes:'monsters/monster_45_eyes.png?v=1',monster_46_a:'monsters/monster_46_a.png?v=1',monster_46_b:'monsters/monster_46_b.png?v=1',monster_47:'monsters/monster_47.png?v=1',monster_48:'monsters/monster_48.png?v=1',monster_49:'monsters/monster_49.png?v=1',monster_49_eyes:'monsters/monster_49_eyes.png?v=1',monster_50:'monsters/monster_50.png?v=1',monster_50_eyes:'monsters/monster_50_eyes.png?v=1',monster_51:'monsters/monster_51.png?v=1',monster_15:'monsters/monster_15.png?v=1',monster_13:'monsters/monster_13.png?v=1',monster_13_blink:'monsters/monster_13_blink.png?v=1',monster_boss_03:'monsters/monster_boss_03.png?v=2',claw:'vfx/claw.png?v=1',blood_slash:'vfx/blood_slash.png?v=1'};
 var IMGF={};Object.keys(IMGF0).forEach(function(k){if(/^monster/.test(k))IMGF[k]=IMGF0[k]});IMGF.flamefx='vfx/flamefx.png?v=1';
 function loadPx(src){return new Promise(function(res){var im=new Image();im.onload=function(){res(im)};im.onerror=function(){res(null)};im.src=src})}
 var ready=null;

diff --git a/real/index.html b/real/index.html
@@ -28,7 +28,7 @@ html,body{margin:0;height:100%;overflow:hidden;touch-action:none;-webkit-text-si
 <div id="rdm" hidden style="position:fixed;left:50%;top:calc(env(safe-area-inset-top) + 56px);transform:translateX(-50%);font-size:12px;background:rgba(18,12,8,.8);padding:3px 8px;pointer-events:none"></div>
 <div style="position:fixed;right:4px;top:calc(env(safe-area-inset-top) + 50px);font-size:9px;color:rgba(255,255,255,.75);text-shadow:0 0 2px #000;pointer-events:none">© OpenStreetMap contributors</div>
 <div id="load">讀取中…</div>
-<script src="../common/monsters.js?v=83"></script>
+<script src="../common/monsters.js?v=84"></script>
 <script src="../common/doll.js?v=12"></script>
 <script>
 (function(){

diff --git a/notes/index.html b/notes/index.html
@@ -164,7 +164,7 @@ html:has(.back:not([hidden])),html:has(.back:not([hidden])) body{overflow:hidden
 <script src="../common/skilldesc.js?v=2"></script>
 <script src="../common/aura.js?v=8"></script>
 <script src="../common/runevals.js?v=3"></script>
-<script src="../common/monsters.js?v=83"></script>
+<script src="../common/monsters.js?v=84"></script>
 <script>
 (function(){
 var BASE='../assets/',V='5',demo=/[?&]demo=1/.test(location.search),NST=20;
